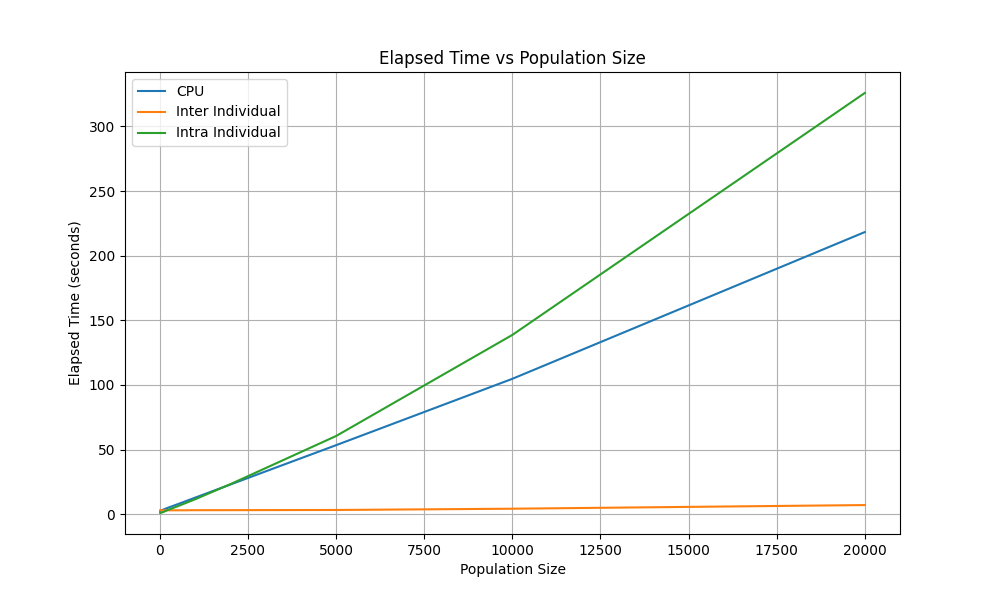
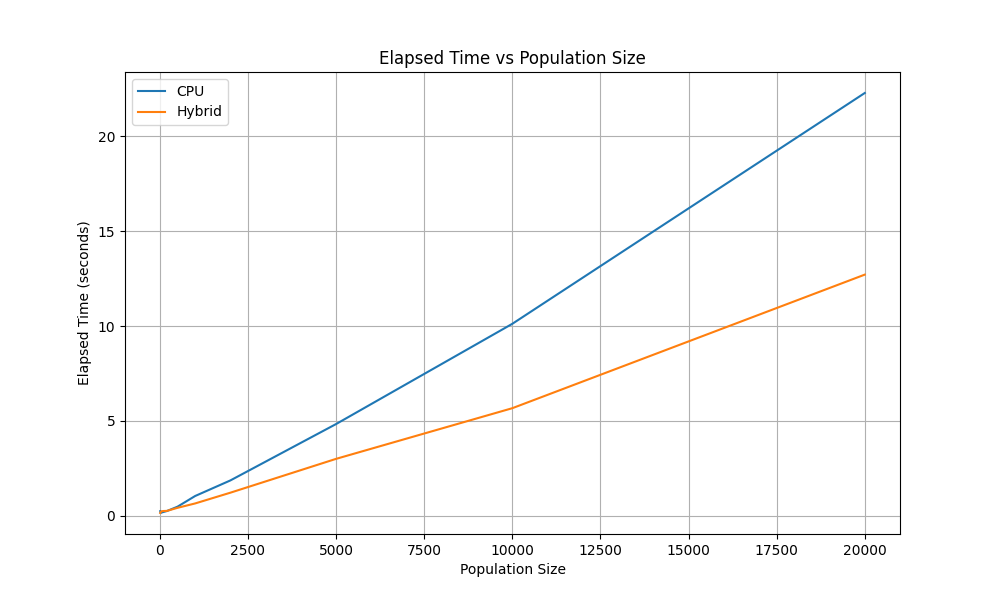
Update population size benchmark (remove inter- and intra-individual parallelism modes due to significantly inferior performance)

diff --git a/benchmark/benchmark_population_size.py b/benchmark/benchmark_population_size.py
@@ -28,8 +28,6 @@ POPULATIONS = [
     5000,
     10000,
     20000,
-    #50000,
-    #100000,
 ]
 
 def fit_model(npopulation, runner_generator):
@@ -50,7 +48,7 @@ def fit_model(npopulation, runner_generator):
     )
 
     # Fit model
-    solution, history = model.fit(ngenerations=2, nsupergenerations=2, nepochs=1, verbose=True)
+    solution, history = model.fit(ngenerations=2, nsupergenerations=2, nepochs=250, verbose=True)
 
     # Find elapsed time
     elapsed_time = time.time() - start_time
@@ -62,11 +60,8 @@ def fit_model(npopulation, runner_generator):
 mse_values_cpu = []
 elapsed_times_cpu = []
 
-mse_values_interindividual = []
-elapsed_times_interindividual = []
-
-mse_values_intraindividual = []
-elapsed_times_intraindividual = []
+mse_values_hybrid = []
+elapsed_times_hybrid = []
 
 
 for pop_per_island in POPULATIONS:
@@ -77,21 +72,15 @@ for pop_per_island in POPULATIONS:
     mse_values_cpu.append(mse)
     elapsed_times_cpu.append(elapsed_time)
 
-    mse, elapsed_time = fit_model(npopulation, InterIndividualRunnerGenerator())
-    print(f'Inter Individual - Population: {npopulation}, MSE: {mse}, Elapsed Time: {elapsed_time} seconds')
-    mse_values_interindividual.append(mse)
-    elapsed_times_interindividual.append(elapsed_time)
-
-    mse, elapsed_time = fit_model(npopulation, IntraIndividualRunnerGenerator())
-    print(f'Intra Individual - Population: {npopulation}, MSE: {mse}, Elapsed Time: {elapsed_time} seconds')
-    mse_values_intraindividual.append(mse)
-    elapsed_times_intraindividual.append(elapsed_time)
+    mse, elapsed_time = fit_model(npopulation, HybridRunnerGenerator())
+    print(f'Hybrid - Population: {npopulation}, MSE: {mse}, Elapsed Time: {elapsed_time} seconds')
+    mse_values_hybrid.append(mse)
+    elapsed_times_hybrid.append(elapsed_time)
 
 # Plot MSE vs Population Size
 plt.figure(figsize=(10, 6))
 plt.plot(POPULATIONS, mse_values_cpu, label='CPU')
-plt.plot(POPULATIONS, mse_values_interindividual, label='Inter Individual')
-plt.plot(POPULATIONS, mse_values_intraindividual, label='Intra Individual')
+plt.plot(POPULATIONS, mse_values_hybrid, label='Hybrid')
 plt.xlabel('Population Size')
 plt.ylabel('Loss (MSE)')
 plt.title('MSE vs Population Size')
@@ -102,8 +91,7 @@ plt.savefig('benchmark_mse_vs_population_size.png')
 # Plot Elapsed Time vs Population Size
 plt.figure(figsize=(10, 6))
 plt.plot(POPULATIONS, elapsed_times_cpu, label='CPU')
-plt.plot(POPULATIONS, elapsed_times_interindividual, label='Inter Individual')
-plt.plot(POPULATIONS, elapsed_times_intraindividual, label='Intra Individual')
+plt.plot(POPULATIONS, elapsed_times_hybrid, label='Hybrid')
 plt.xlabel('Population Size')
 plt.ylabel('Elapsed Time (seconds)')
 plt.title('Elapsed Time vs Population Size')
